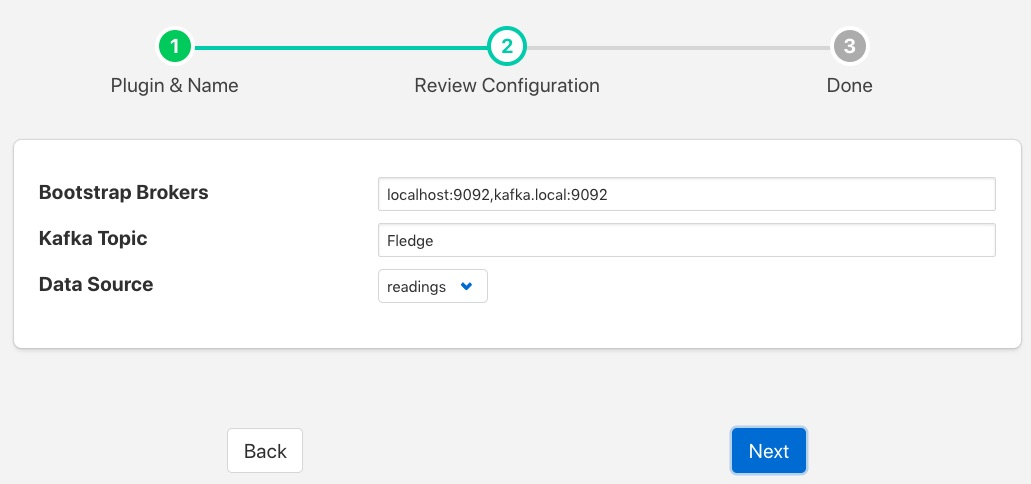
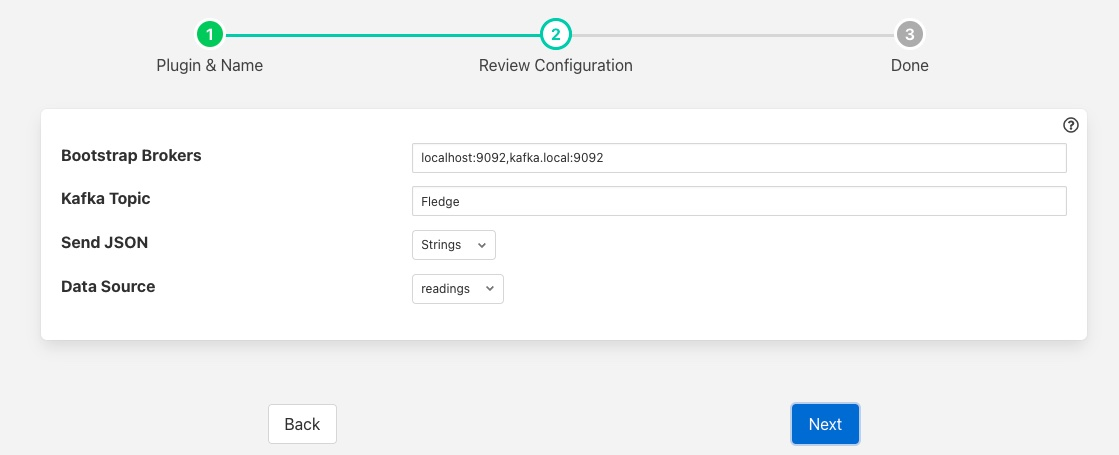
Update documentation

diff --git a/docs/index.rst b/docs/index.rst
@@ -6,12 +6,16 @@ Kafka Producer
 
 The *fledge-north-kafka* plugin sends data from Fledge to the an Apache Kafka. Fledge acts as a Kafka producer, sending reading data to Kafka. This implementation is a simplified producer that sends all data on a single Kafka topic. Each message contains an asset name, timestamp and set of readings values as a JSON document.
 
-The configuration of the *Kafka* plugin is very simple, consisting of three parameters that must be set.
+The configuration of the *Kafka* plugin is very simple, consisting of four parameters that must be set.
 
 +---------+
 | |kafka| |
 +---------+
 
   - **Bootstrap Brokers**: A comma separate list of Kafka brokers to use to establish a connection to the Kafka system.
+
   - **Kafka Topic**: The Kafka topic to which all data is sent.
+
+  - **Send JSON**: This controls how JSON data points should be sent to Kafka. These may be sent as strings or as JSON objects.
+
   - **Data Source**: Which Fledge data to send to Kafka; Readings or Fledge Statistics.
